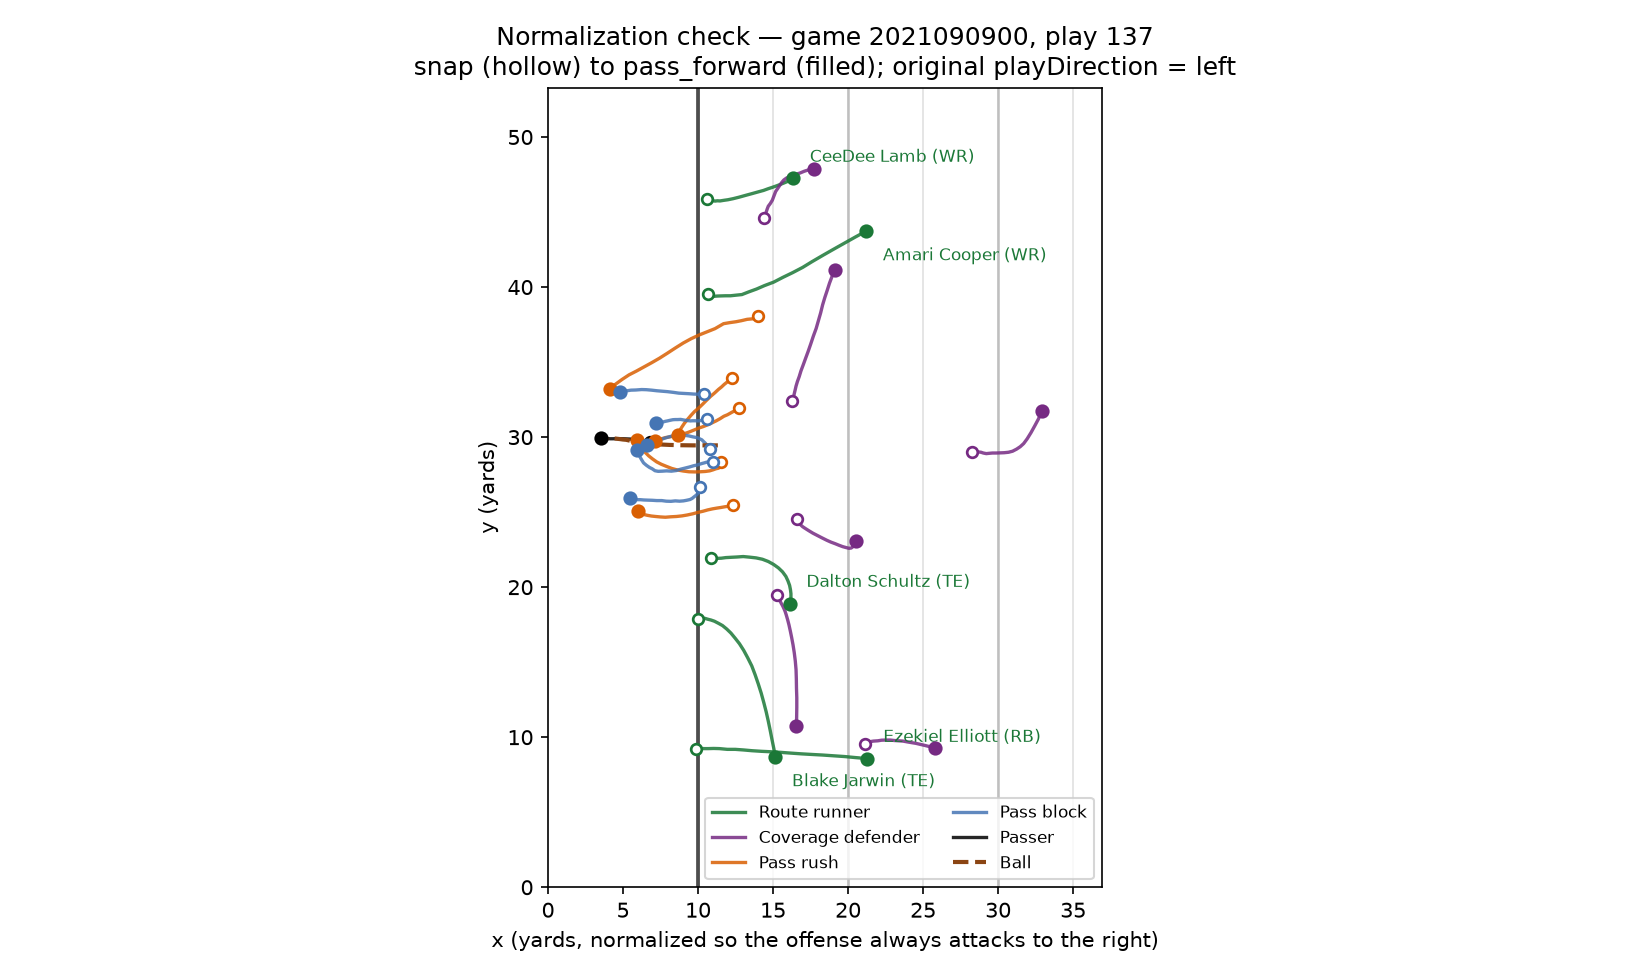
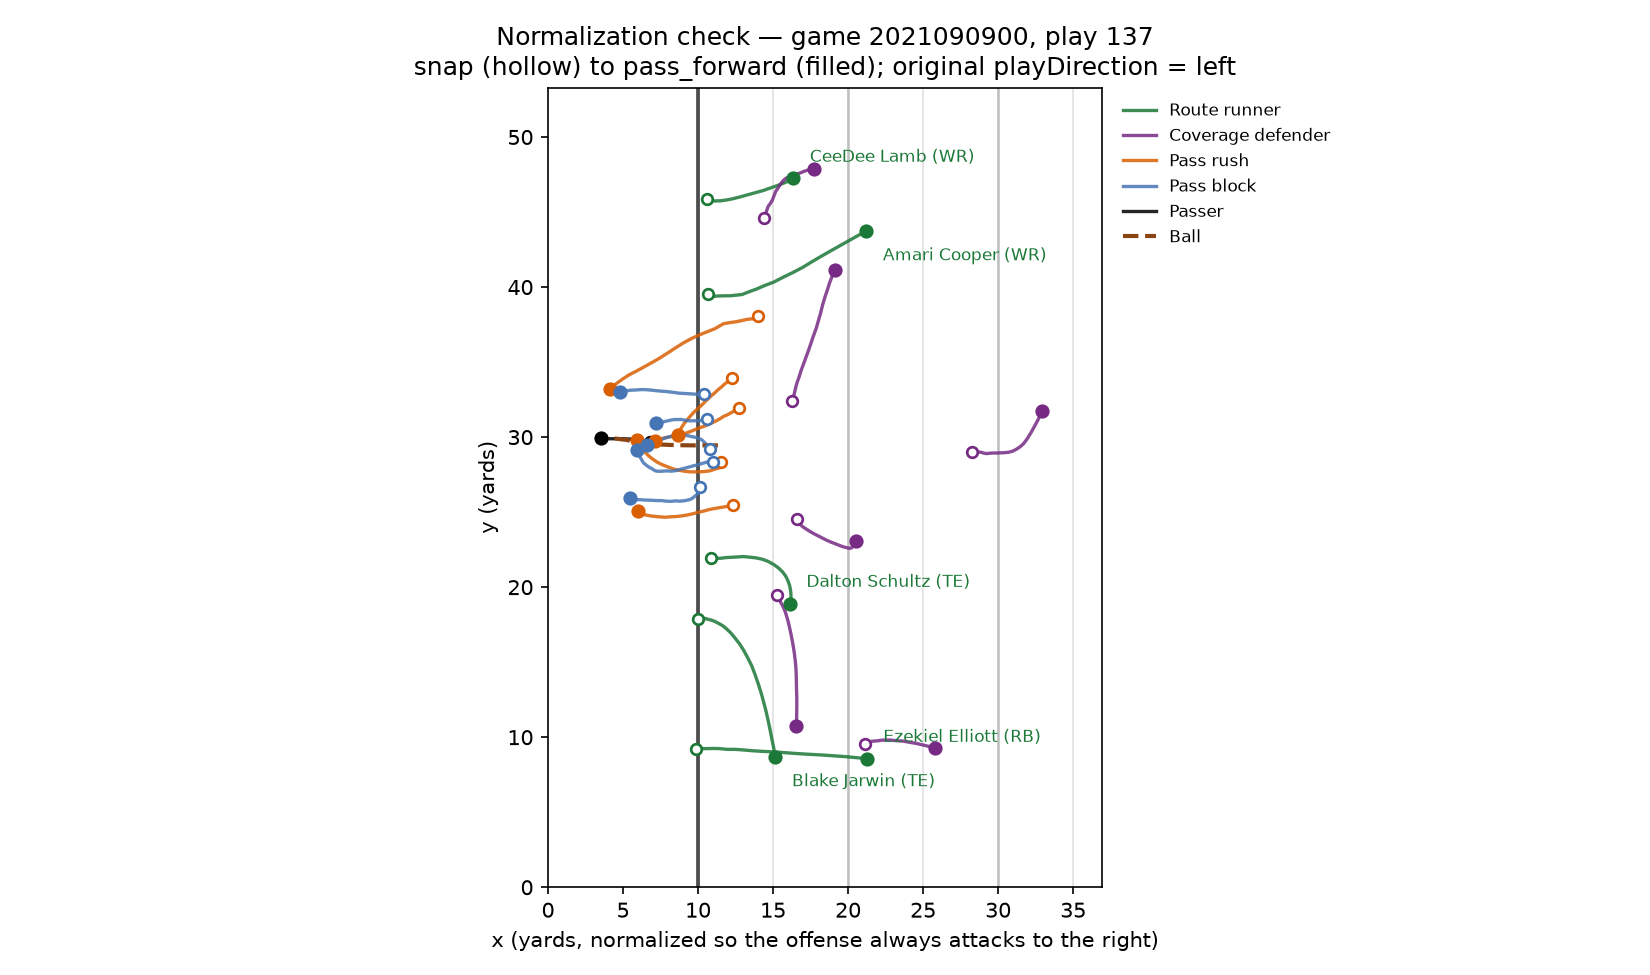
adding data exploration findings

Changed region(s): [[0.4327, 0.8, 0.6491, 0.8923], [0.68, 0.0923, 0.8036, 0.2462]]

diff --git a/src/eda.py b/src/eda.py
@@ -700,6 +700,64 @@ def check_final_sample(plays: pd.DataFrame, pff: pd.DataFrame, players: pd.DataF
     return usable
 
 
+def check_confounders(plays: pd.DataFrame, windows: pd.DataFrame) -> None:
+    """Man and zone are not called in the same situations.
+
+    If man coverage comes with quicker throws or different down/distance, a raw
+    man-vs-zone separation gap could reflect the situation, not the route.
+    """
+    header("11. MAN vs ZONE CONFOUNDERS")
+
+    df = windows.merge(plays, on=["gameId", "playId"], how="inner")
+    df = df.loc[df["pff_passCoverageType"].isin(["Man", "Zone"])].copy()
+    df["time_to_throw"] = (df["throw_frame"] - df["snap_frame"]) / 10.0
+
+    print("Time from snap to throw (s) by coverage type:")
+    print(
+        df.groupby("pff_passCoverageType")["time_to_throw"]
+        .agg(plays="size", mean="mean", median="median", p90=lambda s: s.quantile(0.90))
+        .round(2)
+        .to_string()
+    )
+
+    print("\nSituation profile by coverage type:")
+    print(
+        df.groupby("pff_passCoverageType")
+        .agg(
+            down=("down", "mean"),
+            yardsToGo=("yardsToGo", "mean"),
+            defendersInBox=("defendersInBox", "mean"),
+            play_action_rate=("pff_playAction", "mean"),
+            completion_rate=("passResult", lambda s: s.eq("C").mean()),
+            yards=("playResult", "mean"),
+        )
+        .round(3)
+        .to_string()
+    )
+
+    print("\nMan rate by down:")
+    print(
+        pd.crosstab(df["down"], df["pff_passCoverageType"], normalize="index")
+        .round(3)
+        .to_string()
+    )
+
+    print("\nMan rate by offense formation:")
+    ct = pd.crosstab(df["offenseFormation"], df["pff_passCoverageType"])
+    ct["man_rate"] = (ct["Man"] / ct.sum(axis=1)).round(3)
+    print(ct.to_string())
+
+    print("\nMan rate by yards-to-go bucket:")
+    buckets = pd.cut(df["yardsToGo"], [0, 3, 6, 10, 15, 100],
+                     labels=["1-3", "4-6", "7-10", "11-15", "16+"])
+    ct = pd.crosstab(buckets, df["pff_passCoverageType"], normalize="index").round(3)
+    print(ct.to_string())
+
+    print("\n=> Man plays are thrown marginally quicker and skew to different downs,")
+    print("   so the main chart should hold time-to-throw and position fixed (facet")
+    print("   or control) before claiming a man-vs-zone effect.")
+
+
 def main() -> None:
     games, players, plays, pff = load_games(), load_players(), load_plays(), load_pff()
     check_shapes(games, players, plays, pff)
@@ -713,7 +771,8 @@ def main() -> None:
     separation_feasibility(norm, pff, players)
     check_direction_signal(norm, pff, players)
     check_speed_gate(pff, players)
-    check_final_sample(plays, pff, players)
+    windows = check_final_sample(plays, pff, players)
+    check_confounders(plays, windows)
     header("EDA COMPLETE")
 
 

diff --git a/EDA_FINDINGS.md b/EDA_FINDINGS.md
@@ -1,0 +1,104 @@
+# EDA Findings — Break Sharpness vs. Man/Zone Coverage
+
+Reproduce with `python -m src.eda`. Full console output: [`outputs/eda_report.txt`](outputs/eda_report.txt).
+
+## The three first checks all pass
+
+**Coverage column.** `pff_passCoverageType` is the man/zone label, and it has **no missing
+values** across all 8,557 plays: Zone 65.3%, Man 29.0%, Other 5.7%. It maps cleanly onto
+`pff_passCoverage` with no contradictions — Cover-0/1 and 2-Man are the Man schemes,
+Cover-2/3/6 and Quarters are Zone, and "Other" is the junk bucket (Red Zone, Bracket,
+Goal Line, Prevent, Miscellaneous). **Drop "Other"**; it is a grab bag, not a scheme.
+
+**Events.** `ball_snap` appears on 99.9% of plays and `pass_forward` on 87.8%. Across all
+122 games, **7,525 of 8,554 plays (88.0%)** have a usable snap-to-throw window. The 12%
+that drop out are exactly what we expected: sacks (`passResult == S`) and scrambles (`R`).
+Retention is essentially identical for man (86.1%) and zone (88.3%), so dropping them does
+not bias the comparison. Snap-to-throw averages 2.8 s (median 2.6 s, 5th pct 1.8 s), and
+**no play is shorter than 1.5 s**, so a 0.5 s break window always fits.
+
+**Normalization.** Verified on game 2021090900 and across 12 sampled games. After flipping
+x, y, `o`, and `dir` for left-direction plays, receiver downfield drift from snap to throw
+is statistically identical for both original play directions (left: median +7.00 yd, 92.8%
+positive; right: median +7.32 yd, 91.9% positive). Pass blockers correctly show negative
+drift, since they drop back.
+
+![Sample play](outputs/figures/eda_sample_play.png)
+
+## The metric has a real bug, and the EDA caught it
+
+Taking "the largest direction change over a 0.5 s window" literally **does not measure a
+route break**. On 6,240 route windows (first 20 games) the detector lands at a median speed
+of **0.18 yd/s**,
+and 61% of detected "breaks" happen below 1.0 yd/s. The reason: `dir` is meaningless when a
+player is standing still, and the receiver is standing still at the snap, which is inside
+our window. Worse, the speed-retention term *rewards* this — a player going from 0.03 to
+0.53 yd/s scores retention 1.0. The result is that **14.7% of routes get a "break" over
+120°**, which no receiver performs in half a second.
+
+Two fixes, both confirmed:
+
+1. **Unwrap `dir` before differencing.** Raw `dir` produces 84 frame-to-frame jumps over
+   180° on a single game; these are 0/360 wraparound artifacts, not turns. `np.unwrap` on
+   radians drops that to zero.
+2. **Gate on pre-break speed, inside the search, not after it.** Filtering routes whose
+   unfiltered argmax is slow throws away 75% of the data. Instead, search for the largest
+   heading change *among frames that clear the gate*. At a **3.0 yd/s gate this keeps 94.6%
+   of routes** while cutting implausible (>120°) breaks from 14.7% to 0.9% and pulling the
+   mean break angle from 61° to a believable 23°.
+
+![Break angle vs speed](outputs/figures/eda_break_angle_vs_speed.png)
+
+## Sample sizes are comfortable
+
+**32,495 route-level observations** (9,797 man / 22,698 zone) survive every filter:
+
+| Position | Man | Zone | Total |
+|---|---|---|---|
+| WR | 5,951 | 13,232 | 19,183 |
+| TE | 2,234 | 5,235 | 7,469 |
+| RB | 1,612 | 4,231 | 5,843 |
+
+Routes come from `pff_role == 'Pass Route'` (39,513 rows), of which 98.9% are WR/TE/RB, at
+4.57 routes per play. At a 30-route minimum the leaderboard has 149 WR, 69 TE, and 70 RB,
+and **134 players clear 30 routes in both man and zone**, which is enough to split the
+leaderboard by coverage. Cooper Kupp has 208 routes (151 zone, 57 man), so the planned
+player callout is viable.
+
+Separation at the throw computes cleanly with zero implausible values. On game 2021090900
+(435 receiver-frames) the median is 2.85 yd with a 5th–95th percentile of 0.75–8.56 yd,
+which is in line with public NGS separation numbers. It varies sharply by position
+(median WR 2.44, TE 2.17,
+**RB 5.43**), which is a warning that the WR/TE/RB facet is mandatory — RBs are not
+comparable to WRs, and "nearest coverage defender" is a weak proxy for a back leaking out.
+
+## Man and zone are not called in the same situations
+
+This is the biggest threat to the headline, and it is substantial. Defenses play man on
+short yardage and late downs:
+
+| Yards to go | Man rate |
+|---|---|
+| 1–3 | 50.3% |
+| 4–6 | 44.7% |
+| 7–10 | 26.1% |
+| 16+ | 11.8% |
+
+Man rate is 21.5% on first down but 46.9% on third and 58.3% on fourth. Man plays also
+average 7.6 yards to go versus 9.4 for zone, carry less play action (17.7% vs 26.2%), and
+are thrown slightly quicker (2.84 s vs 2.97 s). Completion rate against man is 53.1% versus
+65.3% against zone.
+
+So a raw man-vs-zone separation gap partly reflects **down, distance, and route depth**, not
+coverage response to the break. The main chart must facet by position at minimum, and the
+claim should be checked while holding time-to-throw and yards-to-go roughly fixed.
+
+## Decisions carried into the main analysis
+
+- Keep `pff_passCoverageType` in `{Man, Zone}`; drop `Other` (417 plays).
+- Window = `ball_snap` to first `pass_forward`; drop plays missing either.
+- Routes = `pff_role == 'Pass Route'` joined to WR/TE/RB.
+- Unwrap `dir` in radians before measuring any angle change.
+- Require ≥ 3.0 yd/s before the break when searching for it.
+- Facet everything by WR/TE/RB; report time-to-throw and yards-to-go alongside.
+- `outputs/play_windows.csv` caches the snap/throw frame index for all 7,525 usable plays.
